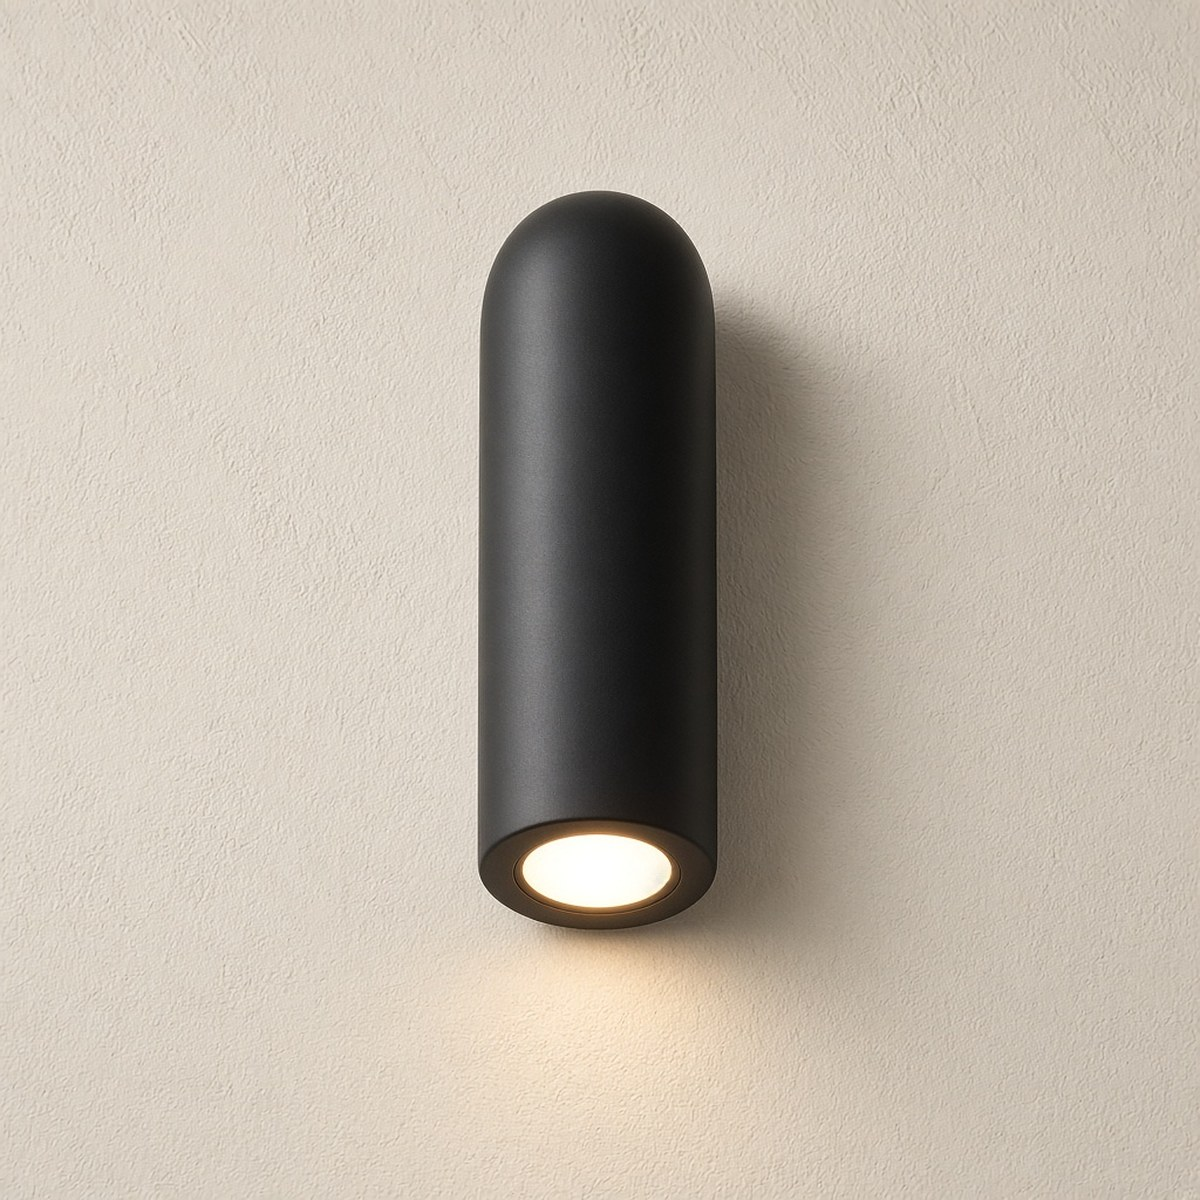
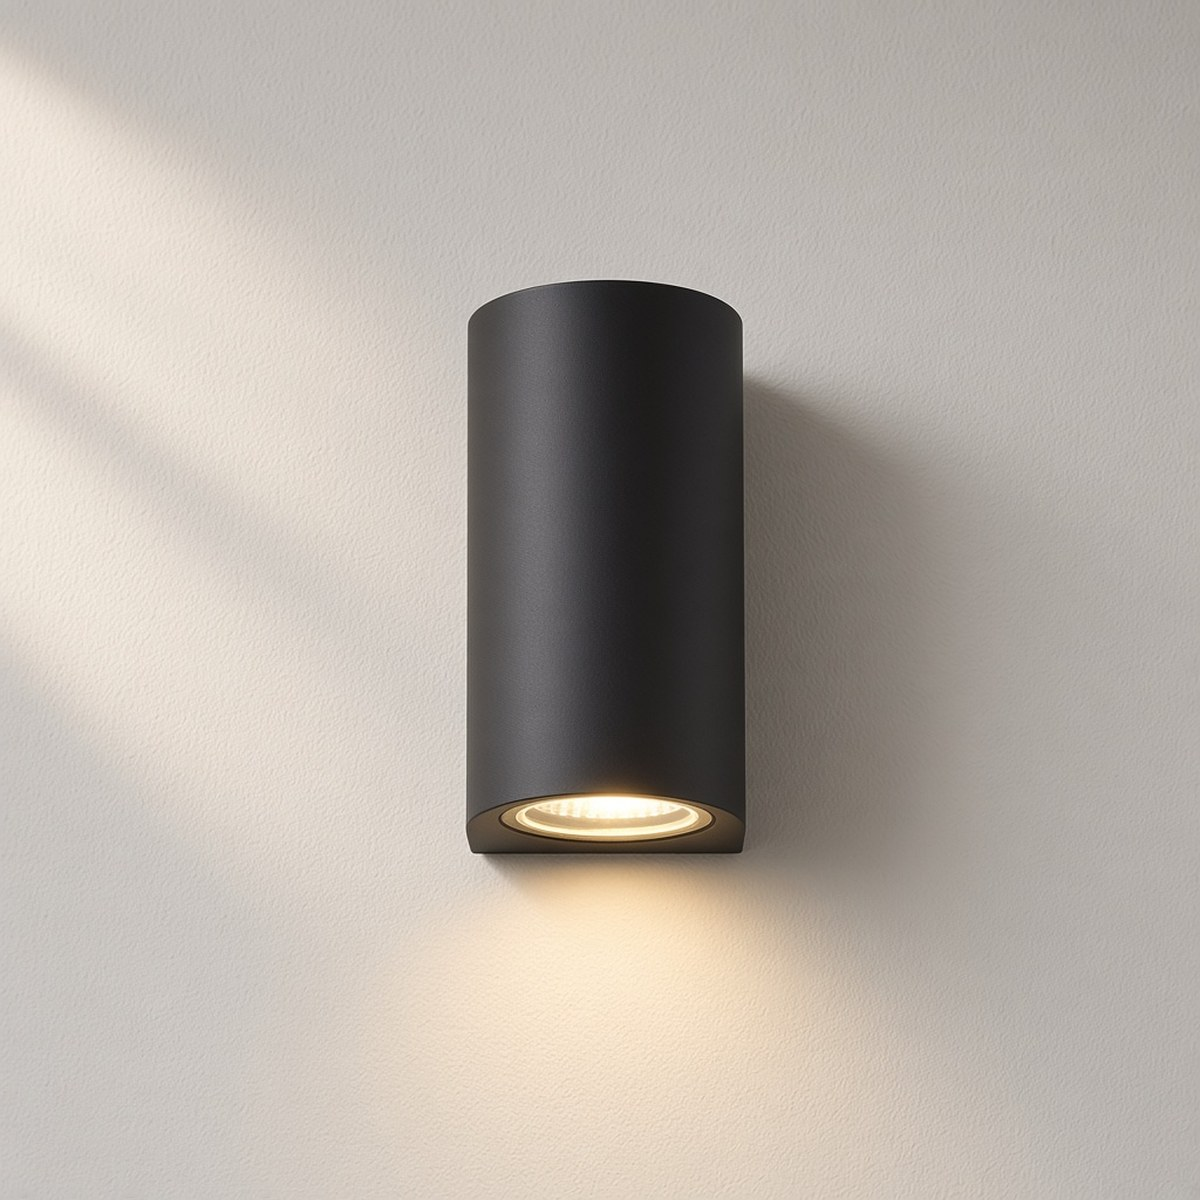
Match each sconce to the real product
Rephotograph all sixteen models from the reference shapes, on one plaster wall, and shift the page to that gray wall and warm beam.

diff --git a/lib/products.js b/lib/products.js
@@ -4,11 +4,11 @@ export const products = [
     name: "7011",
     category: "Aplique",
     price: 94000,
-    summary: "Medio cilindro texturado. Tres haces arriba y tres abajo.",
+    summary: "Medio cilindro horizontal. Tres haces arriba y tres abajo.",
     description:
-      "Un medio cilindro de aluminio negro mate, con textura oscura. Tres haces cálidos suben por el muro y tres bajan.",
+      "Una banda curva, más ancha que alta, con textura oscura. Tres LED en el borde de arriba y tres en el de abajo.",
     material: "Aluminio negro mate texturado",
-    size: "Medio cilindro",
+    size: "Medio cilindro horizontal",
   },
   {
     slug: "7010",
@@ -26,11 +26,11 @@ export const products = [
     name: "7013",
     category: "Aplique",
     price: 99000,
-    summary: "Cuerpo curvo. Tres haces arriba y tres abajo.",
+    summary: "El mismo arco de tres haces, más grande en el encuadre.",
     description:
-      "La misma lectura de tres haces, en un arco más presente sobre el muro.",
-    material: "Aluminio negro mate",
-    size: "Cuerpo curvo",
+      "La misma curva horizontal de 7011. Tres haces arriba y tres abajo, con el cuerpo más presente.",
+    material: "Aluminio negro mate texturado",
+    size: "Medio cilindro horizontal",
   },
   {
     slug: "7275",
@@ -70,9 +70,9 @@ export const products = [
     name: "7266",
     category: "Aplique",
     price: 104000,
-    summary: "Cuerpo alto con el extremo redondo y un LED circular abajo.",
+    summary: "Cilindro alto. El LED circular está en la base.",
     description:
-      "La misma familia alta. El extremo superior es redondo y el LED circular queda a la vista, en la base.",
+      "La luz sale solo hacia abajo, por el LED circular de la cara inferior. Arriba no hay haz.",
     material: "Aluminio negro mate",
     size: "Cuerpo alto, LED circular",
   },
@@ -114,10 +114,10 @@ export const products = [
     name: "7264",
     category: "Aplique",
     price: 45000,
-    summary: "Cuadrado compacto, con una lente rectangular rehundida.",
+    summary: "Cuadrado compacto, con una lente rectangular de vidrio.",
     description:
-      "Un paso de luz pequeño. La lente esmerilada va rehundida en el cuadrado.",
-    material: "Aluminio negro mate y lente esmerilada",
+      "Un paso de luz pequeño. La lente es vidrio claro, rehundida en el frente, con el reflector a la vista.",
+    material: "Aluminio negro mate y vidrio",
     size: "Cuadrado compacto",
   },
   {
@@ -125,9 +125,9 @@ export const products = [
     name: "7308",
     category: "Aplique",
     price: 124000,
-    summary: "Frente de cristal texturado. Tres haces arriba y tres abajo.",
+    summary: "Barra curva con cristal facetado. Tres haces arriba y tres abajo.",
     description:
-      "Un cuerpo curvo y estrecho. El cristal del frente rompe la luz en tres haces hacia arriba y tres hacia abajo.",
+      "Más ancha que alta. El cristal va en el frente, en facetas, y la luz sale en tres haces arriba y tres abajo.",
     material: "Aluminio negro mate y cristal texturado",
     size: "17 × 8 cm",
   },
@@ -136,9 +136,9 @@ export const products = [
     name: "7309",
     category: "Aplique",
     price: 118000,
-    summary: "El mismo frente de cristal, visto más de cerca.",
+    summary: "La misma barra de cristal, sin cotas.",
     description:
-      "La misma pieza de cristal texturado y tres haces a cada lado, sin marcas de medida.",
+      "La misma pieza de 17 × 8 cm. Cristal facetado al frente y tres haces a cada lado.",
     material: "Aluminio negro mate y cristal texturado",
     size: "17 × 8 cm",
   },
@@ -147,9 +147,9 @@ export const products = [
     name: "7312",
     category: "Aplique",
     price: 39000,
-    summary: "Placa pequeña, ranura en zigzag y cuatro LED en las esquinas.",
+    summary: "Escalón corto, ranura en zigzag y cuatro LED.",
     description:
-      "El más corto de la serie de paso. Una ranura en zigzag y un LED en cada esquina.",
+      "El más corto de la serie. El cuerpo sigue el escalón, la ranura hace zigzag y hay un LED en cada esquina.",
     material: "Aluminio negro mate",
     size: "80 × 105 × 42 mm",
   },
@@ -158,9 +158,9 @@ export const products = [
     name: "7313",
     category: "Aplique",
     price: 52000,
-    summary: "Zigzag más ancho, con seis LED.",
+    summary: "Tres escalones y seis LED.",
     description:
-      "La misma ranura, en una placa más ancha. Seis puntos de luz a lo largo del corte.",
+      "La misma ranura, en un cuerpo más ancho. Seis LED, uno en cada esquina del escalón.",
     material: "Aluminio negro mate",
     size: "120 × 130 × 42 mm",
   },
@@ -169,9 +169,9 @@ export const products = [
     name: "7314",
     category: "Aplique",
     price: 64000,
-    summary: "El zigzag más largo, con ocho LED.",
+    summary: "Cuatro escalones y ocho LED.",
     description:
-      "La placa más larga de la serie. Ocho LED siguen el corte en zigzag.",
+      "El zigzag más largo. Ocho LED siguen el corte, uno en cada esquina.",
     material: "Aluminio negro mate",
     size: "160 × 160 × 42 mm",
   },

diff --git a/app/page.js b/app/page.js
@@ -7,17 +7,17 @@ const scenes = [
   {
     src: "/scenes/hallway.jpg",
     title: "Pasillo",
-    text: "Un medio cilindro lava el muro largo.",
+    text: "El 7011, en horizontal. Tres haces arriba y tres abajo.",
   },
   {
     src: "/scenes/entry.jpg",
     title: "Acceso",
-    text: "El cubo queda junto a la puerta.",
+    text: "El cubo 7010, abierto arriba y abajo.",
   },
   {
     src: "/scenes/bedroom.jpg",
     title: "Dormitorio",
-    text: "Una sola pieza sobre la cabecera.",
+    text: "El 7257 sobre la cama. LED abajo y haz hacia arriba.",
   },
 ];
 
@@ -29,13 +29,13 @@ export default function HomePage() {
     <>
       <section className="hero wrap">
         <div className="hero-copy">
-          <p className="kicker">Taller en Santiago</p>
+          <p className="kicker">Serie de muro</p>
           <h1>
-            Luz baja, <em>para quedarse.</em>
+            Negro mate, <em>luz en el muro.</em>
           </h1>
           <p className="dek">
-            Apliques de muro en aluminio negro mate. Una luz cálida, hacia arriba
-            y hacia abajo, para el pasillo y el dormitorio.
+            Dieciséis apliques. El cuerpo es el de la foto: cubo, arco, zigzag o
+            cilindro. El haz cae sobre el mismo muro claro.
           </p>
           <Link href="/iluminacion" className="link-brass">
             Ver la colección
@@ -76,12 +76,12 @@ export default function HomePage() {
 
       <section className="section wrap essay">
         <div>
-          <p className="kicker">El taller</p>
-          <h2>Pocas formas</h2>
+          <p className="kicker">La serie</p>
+          <h2>Un muro, un acabado</h2>
           <p>
-            Una sola familia: aluminio negro mate y una luz cálida. Los apliques
-            lavan el muro hacia arriba, hacia abajo, o las dos cosas. El catálogo
-            no mezcla acabados.
+            Todo el catálogo es aluminio negro mate sobre muro claro. Cambia el
+            corte: cubo abierto, medio cilindro, cristal al frente, escalón en
+            zigzag. El haz de la foto es el de la pieza.
           </p>
         </div>
         <ul className="materials">
@@ -95,7 +95,7 @@ export default function HomePage() {
           </li>
           <li>
             <span>Cristal texturado</span>
-            <span>El frente de 7308</span>
+            <span>El frente de 7308 y 7309</span>
           </li>
           <li>
             <span>Latón</span>

diff --git a/app/globals.css b/app/globals.css
@@ -1,11 +1,11 @@
 :root {
-  --paper: #f3eee6;
-  --paper-2: #e6dfd2;
-  --ink: #241f1b;
-  --muted: #5c564e;
-  --line: #ddd4c6;
-  --brass: #6e542b;
-  --plate: #ebe3d6;
+  --paper: #e7e4df;
+  --paper-2: #ddd9d2;
+  --ink: #1a1a1a;
+  --muted: #5c5854;
+  --line: #cfc9c2;
+  --brass: #9a6430;
+  --plate: #e7e4df;
   --gutter: clamp(20px, 4vw, 56px);
 }
 
@@ -21,7 +21,7 @@ body {
   line-height: 1.65;
   text-rendering: optimizeLegibility;
 }
-::selection { background: #e7d7b8; }
+::selection { background: #ead7bc; }
 h1, h2, h3 { font-weight: 450; }
 h1 {
   font-family: var(--font-serif), Palatino, "Palatino Linotype", serif;
@@ -248,7 +248,7 @@ button[aria-current="page"] { box-shadow: inset 0 -1px 0 var(--brass); }
   font-size: 14px;
   letter-spacing: 0.03em;
 }
-.btn-add:hover { background: #3c342c; }
+.btn-add:hover { background: #333; }
 .btn-block { display: flex; align-items: center; justify-content: center; width: 100%; }
 .qty {
   display: inline-flex;
@@ -351,7 +351,7 @@ button[aria-current="page"] { box-shadow: inset 0 -1px 0 var(--brass); }
   width: min(420px, 100%);
   display: flex;
   flex-direction: column;
-  background: #f7f3ed;
+  background: var(--paper);
   border-left: 1px solid var(--line);
 }
 .drawer header,

diff --git a/components/Frame.js b/components/Frame.js
@@ -44,7 +44,7 @@ export function Frame({ children }) {
         <div className="wrap bar">
           <Link href="/" className="wordmark">
             Senda
-            <span>Iluminación de interior</span>
+            <span>Apliques de muro</span>
           </Link>
           <nav className="nav" aria-label="Principal">
             <Link href="/iluminacion" aria-current={pathname.startsWith("/iluminacion") ? "page" : undefined}>
@@ -67,7 +67,7 @@ export function Frame({ children }) {
         <div className="wrap foot">
           <div>
             <strong>Senda</strong>
-            <p>Apliques de muro en aluminio negro mate. Taller en Santiago.</p>
+            <p>Negro mate sobre muro claro. La luz sale en haces, arriba o abajo.</p>
           </div>
           <div>
             <strong>Colección</strong>

diff --git a/app/layout.js b/app/layout.js
@@ -20,15 +20,15 @@ const serif = Newsreader({
 
 export const metadata = {
   title: {
-    default: "Senda — Iluminación de interior",
+    default: "Senda — Apliques de muro",
     template: "%s — Senda",
   },
   description:
-    "Apliques de muro en aluminio negro mate. Muestra de tienda en pesos chilenos, sin pago.",
+    "Apliques de muro en aluminio negro mate. Cada foto corresponde a esa pieza. Muestra en pesos chilenos, sin pago.",
 };
 
 export const viewport = {
-  themeColor: "#f3eee6",
+  themeColor: "#e7e4df",
   width: "device-width",
   initialScale: 1,
 };

diff --git a/app/iluminacion/page.js b/app/iluminacion/page.js
@@ -16,7 +16,7 @@ export default function CollectionPage() {
         <p className="kicker">Colección</p>
         <h1>Iluminación</h1>
         <p className="dek">
-          Dieciséis apliques de muro, en negro mate. Precios en pesos chilenos.
+          Dieciséis apliques. Cada foto es esa pieza, sobre el mismo muro. Precios en pesos chilenos.
         </p>
       </header>
       <div className="catalog">
